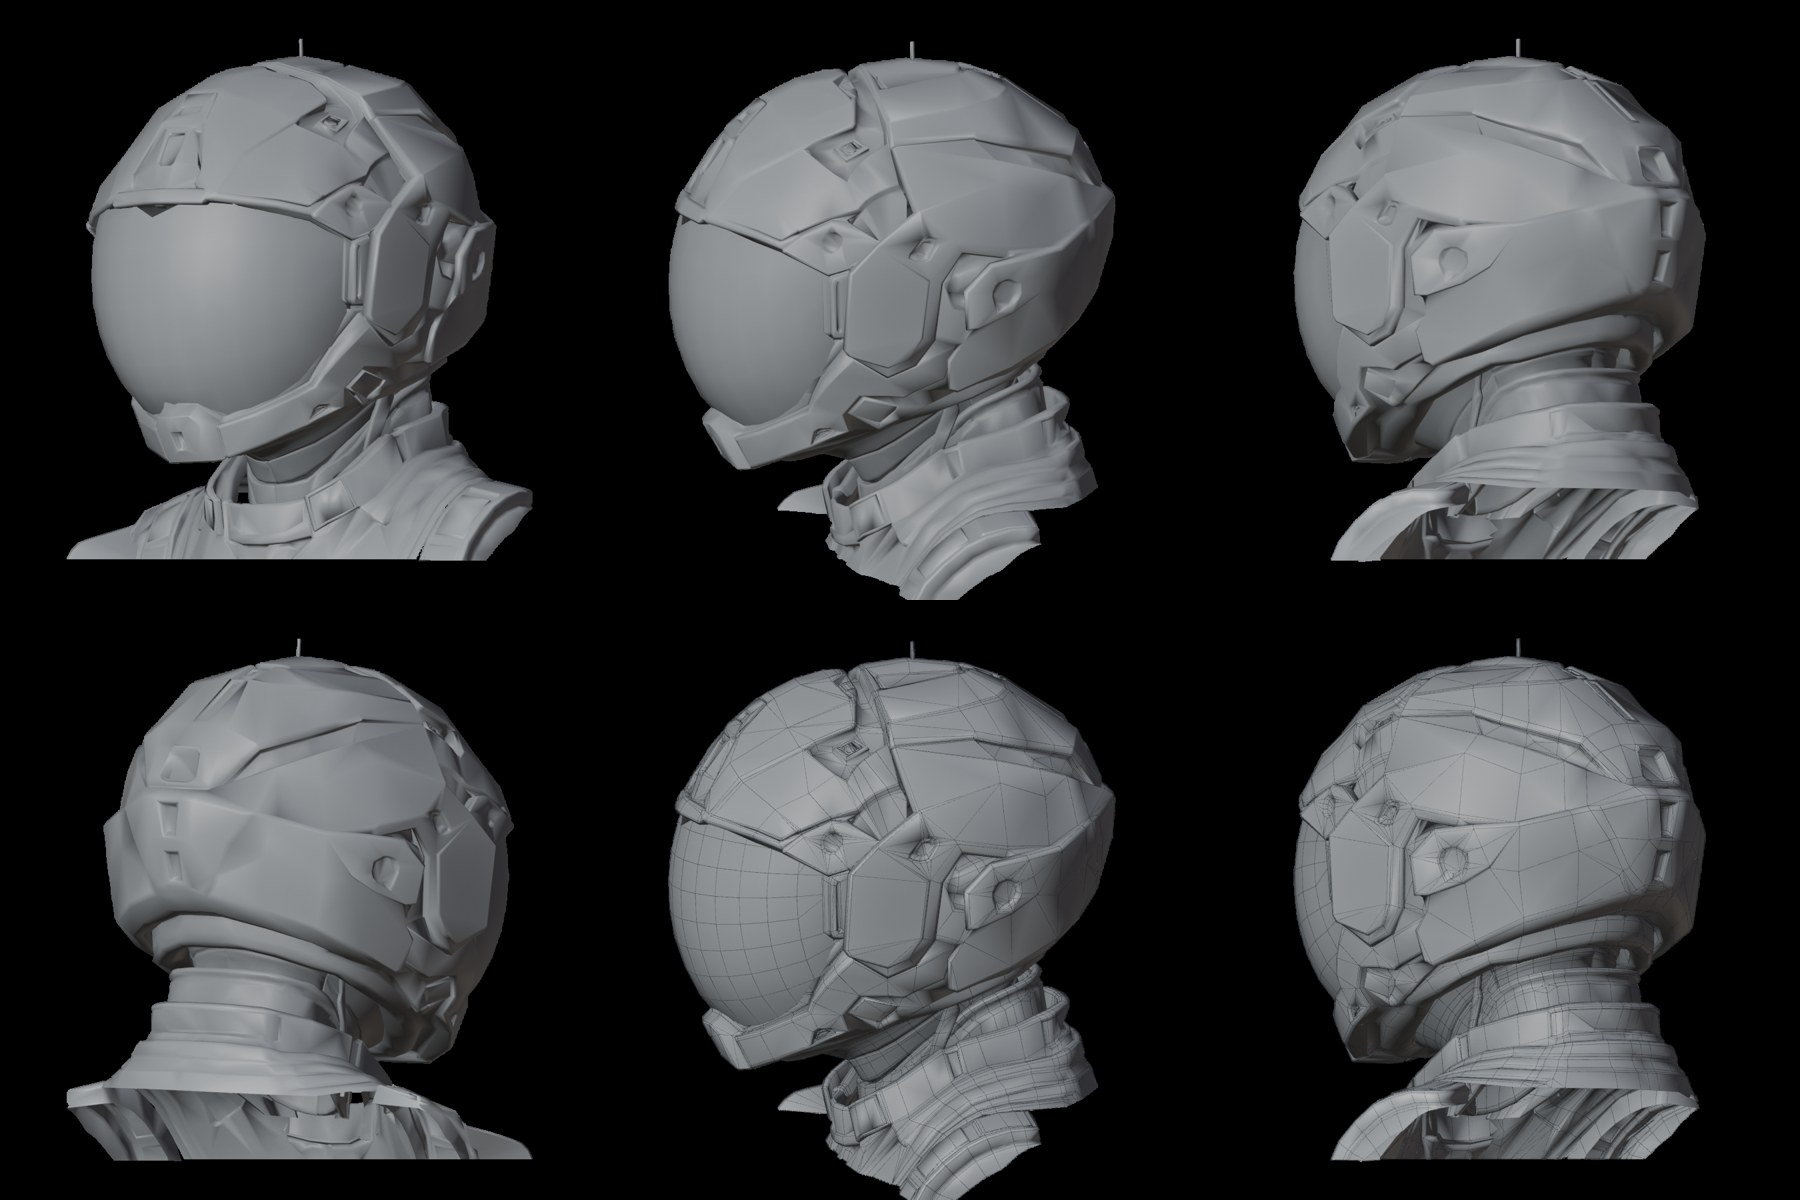
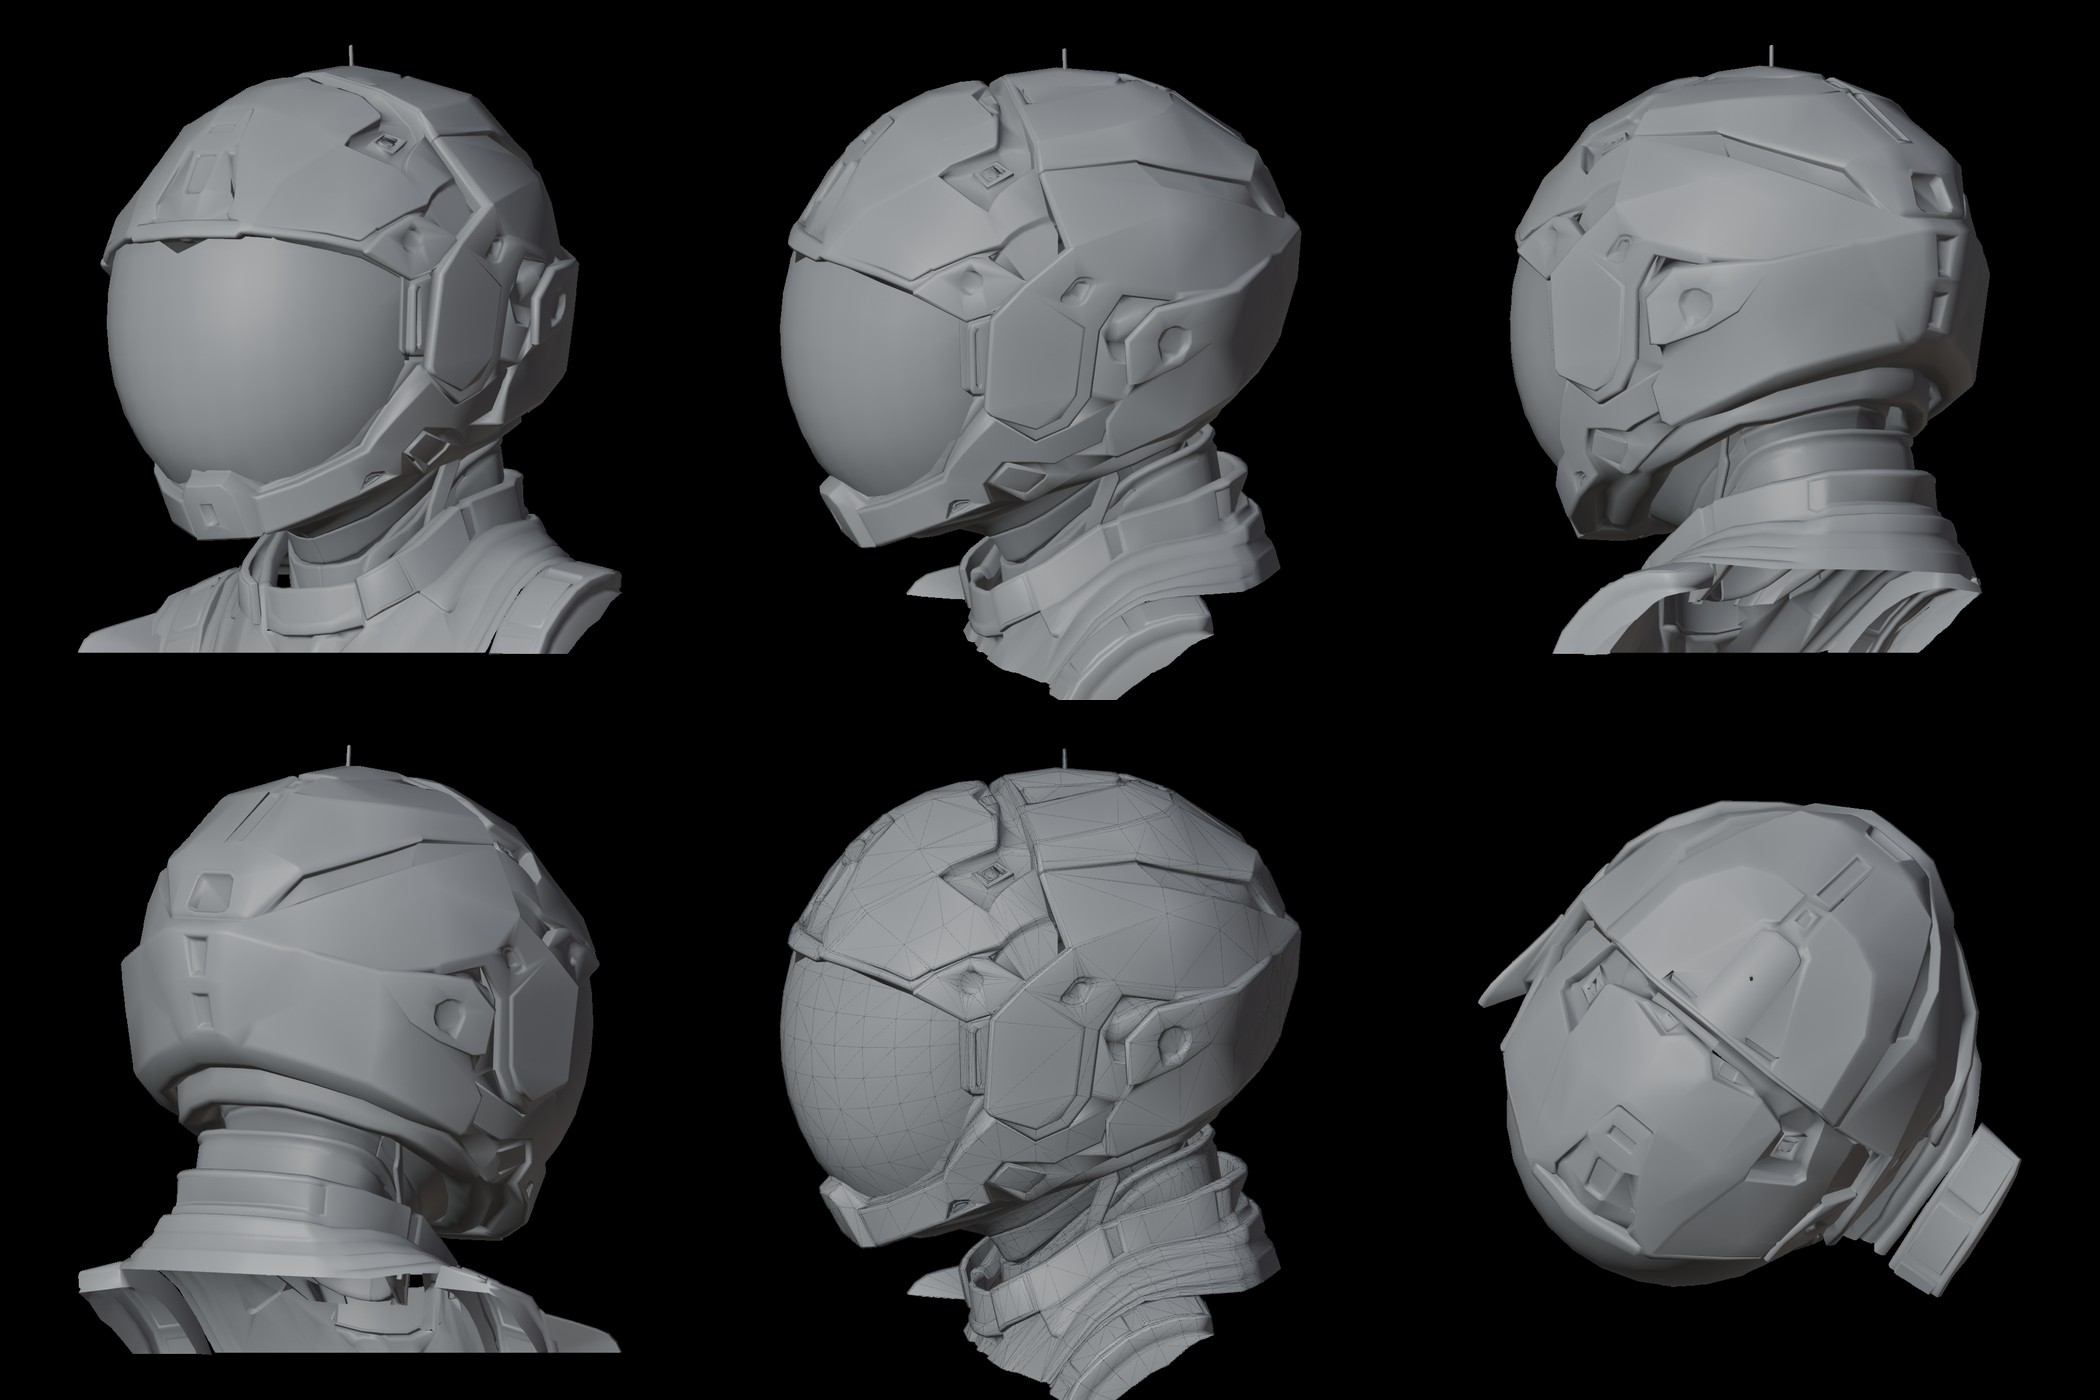
refs/ai_draft: re-render helmet and connector check sheets with the original custom normals; WORKFLOW note on keeping Tripo normals
Claude-Session: https://claude.ai/code/session_01MAyWHpp2HW1JQs9m9WtUe7

diff --git a/refs/ai_draft/README.md b/refs/ai_draft/README.md
@@ -4,12 +4,12 @@
 
 | 文件 | 输入 | Tripo 参数 | 结果 | 怎么用 |
 |---|---|---|---|---|
-| `X1_头盔闭眼_smartmesh.glb` | `X1_头盔闭眼_输入.png`（X1 设定图右上「CLOSED EYE」裁图） | Smart Mesh · P2.0 · Quad · 8000 面 | 约 9000 个四边面（GLB 里被三角化，Blender 里 `join_triangles` 能还原约 2/3）；13 个连通块；前半块面清楚、棱分明，后脑与侧后方是猜的，块面歪扭 | 头盔底稿：保留前半，后半按前半的块面逻辑补齐；改盔顶眉骨、收窄面罩、暗琥珀（DESIGN 9.1.1） |
+| `X1_头盔闭眼_smartmesh.glb` | `X1_头盔闭眼_输入.png`（X1 设定图右上「CLOSED EYE」裁图） | Smart Mesh · P2.0 · Quad · 8000 面 | 约 9000 个四边面（GLB 里被三角化，Blender 里 `join_triangles` 能还原约 2/3）；13 个连通块；块面清楚、棱分明；后脑分块比前面简单（是猜的），但不歪扭 | 头盔底稿：保留前半，后半按前半的块面逻辑补齐；改盔顶眉骨、收窄面罩、暗琥珀（DESIGN 9.1.1） |
 | `X1_软态正视_hd分件.glb` | `X1_软态正视_输入.png`（X1 左上「FRONT」裁图） | HD Model · H3.1 · Ultra Mesh · AI Complete 开 · Generate in Parts（Balanced）· 不带贴图 · 30 万面 | 29.4 万三角面、7 MB、15 件：头盔、脸、躯干、左右上臂 / 前臂 / 手 / 大腿 / 小腿 / 靴；背面由 AI 补全且合理；高 0.98（需缩放到 1.74 m） | 身体底稿：织带、扣具、腰带、氧气管、护膝都在；边偏软；胸前铭文被做成乱码浮雕（磨平，改用贴图重上）；织带与服装、面罩与头盔壳未分开 |
-| `X1_头盔闭眼修正_smartmesh.glb` | `X1_头盔闭眼修正_GPT.png`（GPT 按 9.1.1 重画：眉骨、窄面罩带、烟琥珀） | Smart Mesh · P2.0 · Quad · 10000 面 | 约 1.3 万面、36 块；正面眉骨、面罩带、护颌、颈环都在，块面表面有凹凸、侧后方偏软 | **原创性风险**：眉骨 + 窄面罩带 + 护颌合起来，正面仍接近某知名游戏的装甲头盔。精修时去掉护颌，下半脸改成真实飞行员式的氧气面罩 + 软管（DESIGN 9.1.1 已有氧气接头），这是最有效的区分 |
+| `X1_头盔闭眼修正_smartmesh.glb` | `X1_头盔闭眼修正_GPT.png`（GPT 按 9.1.1 重画：眉骨、窄面罩带、烟琥珀） | Smart Mesh · P2.0 · Quad · 10000 面 | 约 1.3 万面、36 块；眉骨、面罩带、护颌、颈环都在，四面块面都干净利落（后脑也分块合理） | **原创性风险**：眉骨 + 窄面罩带 + 护颌合起来，正面仍接近某知名游戏的装甲头盔。精修时去掉护颌，下半脸改成真实飞行员式的氧气面罩 + 软管（DESIGN 9.1.1 已有氧气接头），这是最有效的区分 |
 | `X1_披甲态_hd分件.glb` | `X1_披甲态_GPT.png` | HD · H3.1 · AI Complete · 分件 Detailed · 30 万面 | 29 万面、7 MB、**77 件**：肩甲多层、前臂六角鳞甲、护膝、挽具、左胸软管、背板都单独成件，正好做“锁紧”动画；盔顶天线被做成一片鳍（删掉） | 披甲态底稿（X2）；头盔统一换成上面那顶修正版 |
 | `X1_第2层抗荷_hd分件.glb` | `X1_第2层抗荷_GPT.png` | HD · H3.1 · AI Complete · 分件 Balanced · 30 万面 | 29 万面、21 件，无头；胸腹画成一整块分节护板（不是分开的气囊贴片），皮肤无肌肉 | 分层爆炸第 2 层；第 3 层用软态、第 4 层用披甲态 |
 | `X1_脐带接头_smartmesh.glb` | `X1_脐带接头_GPT.png` | Smart Mesh · P2.0 · Quad · 10000 面 | 5600 面、四口 + 短软管 + 提手，干净 | 左胸脐带接口与座椅侧接头（X1 设定第 6 项） |
 | 第 1 层液冷内衣 | — | — | GPT 第一次出图满是肌肉，退回重画 | 待 |
 
-检查图：`*_检查.jpg`（Workbench 正 / 斜 / 侧 / 背，分件版第二排按零件着色），`*_特写.jpg`（头部、躯干）。
+检查图（2026-10-15 重渲：早先的头盔与接头检查图在渲染前合并了三角面，自定义法线错位，块面显得坑洼发糊，模型本身没问题）：`*_检查.jpg`（Workbench 正 / 斜 / 侧 / 背，分件版第二排按零件着色），`*_特写.jpg`（头部、躯干）。
